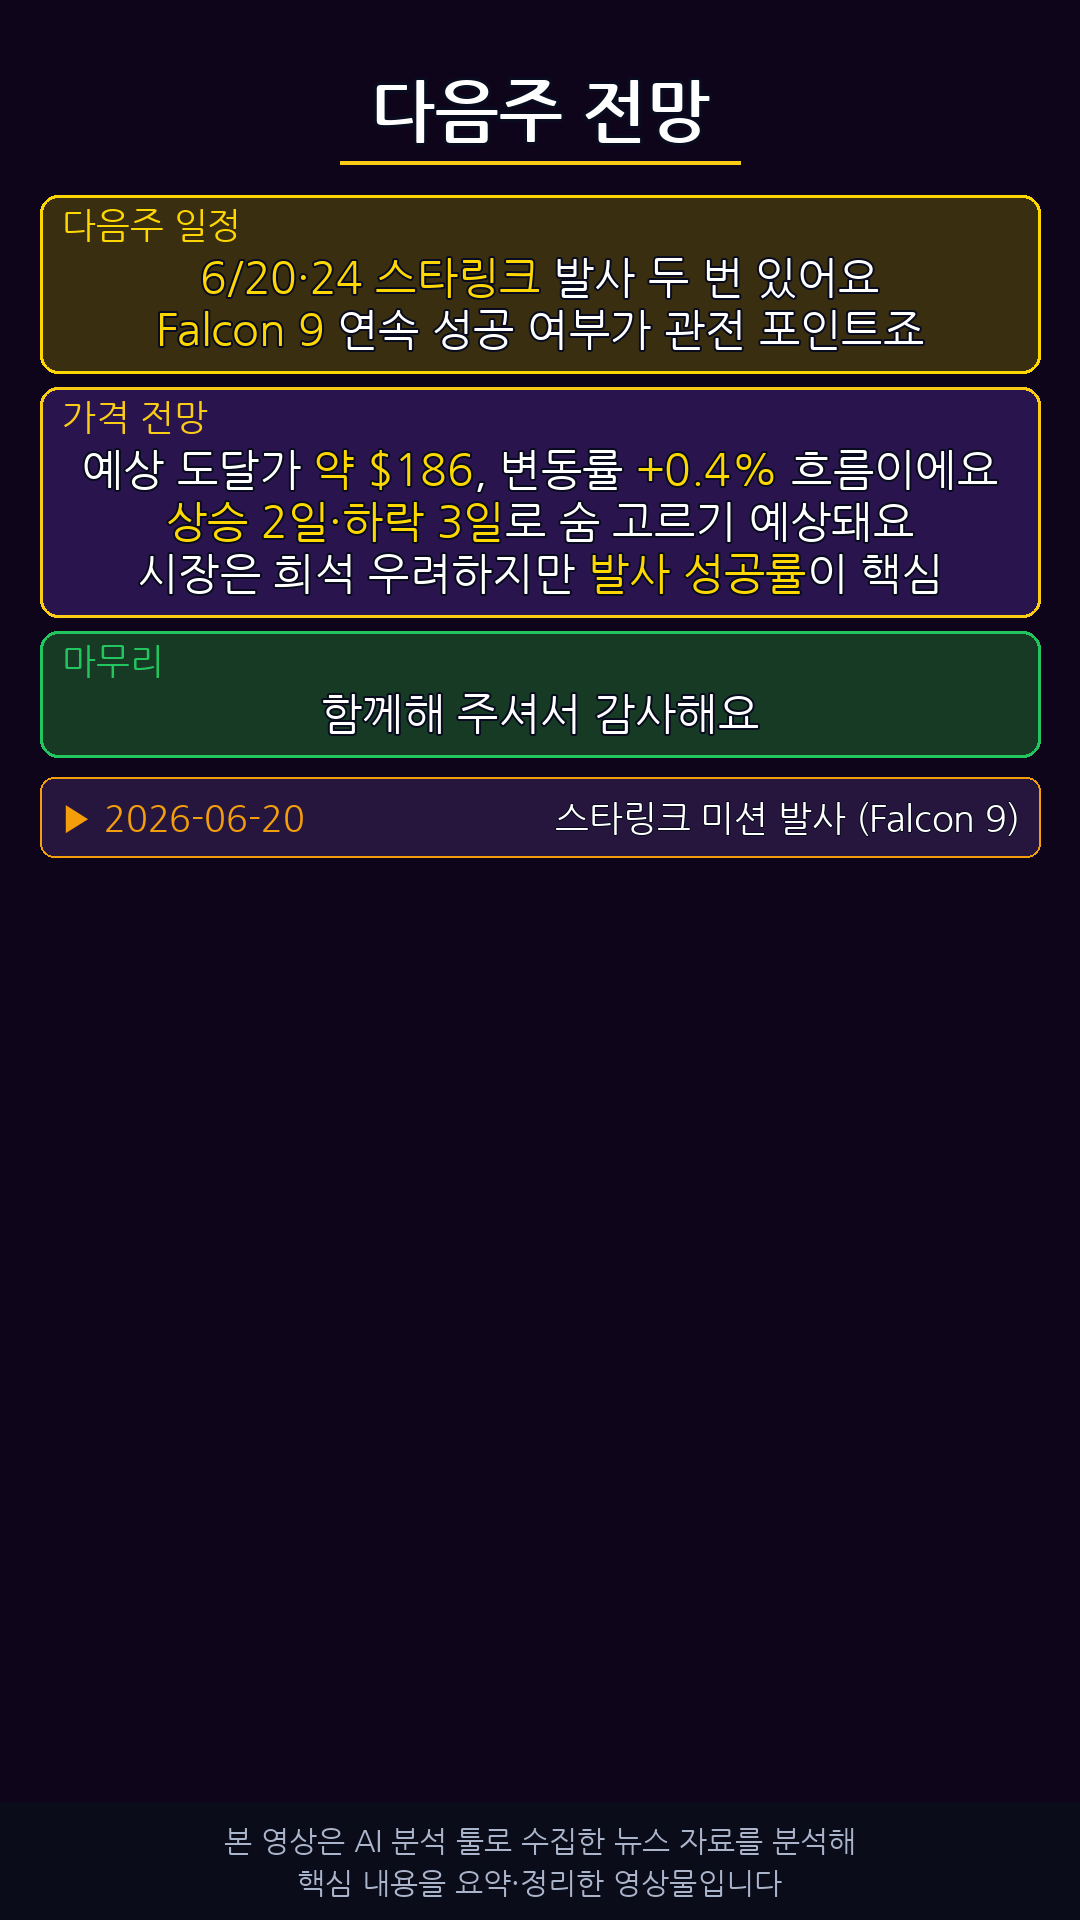
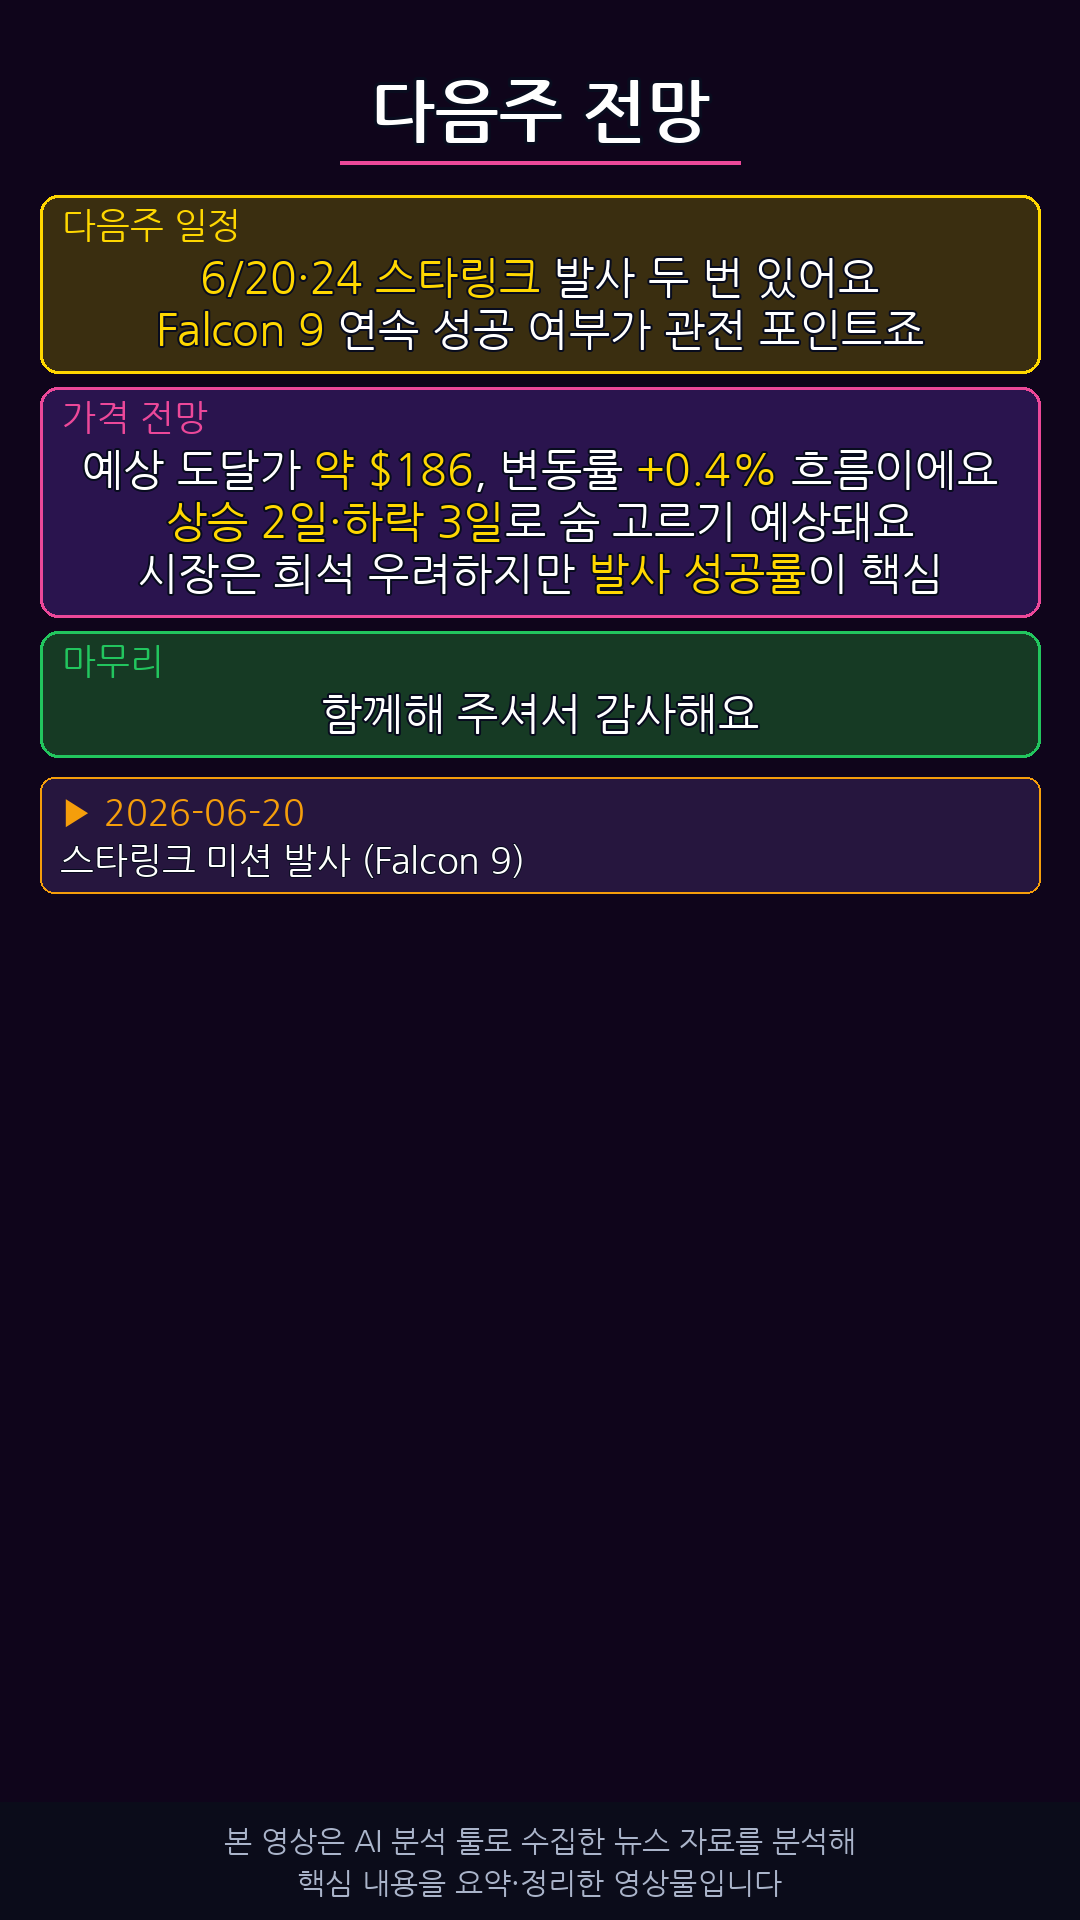
fix: 클로징 씬 캘린더 일정 줄 날짜·제목 겹침 수정 (#9)
* feat: 쇼츠 양산형 탈피 — 격일 생성 + 오프닝 훅 다양화 + 색상 테마 로테이션

rklb-dashboard v1.0.7을 포팅 (4가지 모두 종목 무관 로직):
- weekly-video.yml: 주1회 금요일 → 격일(월·수·금 KST 새벽) cron 전환
- weekly_video_prep.py: HOOK_STYLES 8종 풀 + pick_hook()으로 생성일 시드
  기반 오프닝 다양화, "시장 컨센서스와 다른 차별화 관점 1줄" 프롬프트 지시 추가
- weekly_video_prep.py + weekly_video_make.py: ACCENT_THEMES 3종 팔레트 +
  _theme_idx()로 정적 이미지·영상 색상 테마를 생성일 기준 동기화 로테이션
- LOOKBACK_DAYS에 격일 생성 시 4~5로 줄이는 것을 권장하는 주석 추가

Claude-Session: https://claude.ai/code/session_0198QaPdDbYsY7wRxyUjvexU

* fix: AI 분석이 SPCX를 비상장 기업으로 오판하는 문제 수정

원인: 모델의 사전학습 지식(SpaceX 실제 비상장)과 대시보드 전제(2026-06-12
가상 IPO 완료)가 충돌해, IPO 관련 뉴스를 "가상 시나리오"·"미상장 기업"으로
판단하고 impact_score 0/neutral 처리하는 사례가 다수 발생. Google Search
grounding을 쓰는 프롬프트는 실시간 검색 결과가 실제 비상장 현실을 그대로
반영해 특히 취약했음(주간영상 변동원인 카드에 "스페이스X는 비상장 기업이므로
가상의 수치입니다" 문구가 실제로 노출됨).

- config/ticker.json: ipo_fact_en 필드 추가(SPCX 전용, 선택적) — IPO가
  실제 발생했다는 사실을 모든 프롬프트에 주입해 모델이 전제와 충돌하지
  않도록 함
- scripts/lib/prompt.js: ipoFactNote() 헬퍼 추가, buildSystemPrompt에서
  사용 — Node 스크립트와 브라우저(index.html) 공통 진입점
- index.html: buildSystemPromptBrowser/gCfg fallback/SYSTEM_PROMPT
  fallback 3곳에 동일하게 반영(설정 fetch 실패 시에도 누락 없도록)
- scripts/auto-analysis.js, calendar-update.js, backtest-run.js:
  Google Search grounding을 쓰는 개별 프롬프트(뉴스/인물 감성/캘린더/
  백테스트 수집)에도 IPO_FACT 주입
- scripts/weekly_video_prep.py: search_movement_reason()을 IPO_FACT_EN
  설정 종목은 실시간 검색 대신 이미 같은 전제로 분석된 top_bullish/
  top_bearish 근거로 합성하도록 분기(검색 결과의 현실 반영 자체를 차단)
[…]

Changed region(s): [[0.0306, 0.4062, 0.9778, 0.4688], [0.0611, 0.1875, 0.1833, 0.2188]]

diff --git a/scripts/weekly_video_prep.py b/scripts/weekly_video_prep.py
@@ -1641,13 +1641,15 @@ def build_scene_image(scene, summary, font_reg, font_bold, bg_path: Path | None 
             ev = next_events[0]
             date_s = ev.get("date", "")
             title_s = strip_emoji(ev.get("title", "")[:30])
-            SLIM_H = 80
+            # 날짜·제목을 한 줄에 같이 배치하면 제목이 길 때(특히 한글 전용 23자급)
+            # 좌측 날짜와 우측 제목이 가운데서 겹친다 — 두 줄로 분리해 항상 여유 확보.
+            SLIM_H = 116
             draw.rounded_rectangle([PAD, SLIM_Y, W - PAD, SLIM_Y + SLIM_H],
                                    radius=14, fill=(38, 22, 62), outline=AMBER, width=2)
-            draw.text((PAD + 20, SLIM_Y + SLIM_H // 2), f"▶ {date_s}",
+            draw.text((PAD + 20, SLIM_Y + 34), f"▶ {date_s}",
                       font=f_sm, fill=AMBER, anchor="lm")
-            draw.text((W - PAD - 20, SLIM_Y + SLIM_H // 2), title_s,
-                      font=f_sm, fill=WHITE, anchor="rm",
+            draw.text((PAD + 20, SLIM_Y + 82), title_s,
+                      font=f_sm, fill=WHITE, anchor="lm",
                       stroke_width=1, stroke_fill=STROKE)
         else:
             # 폴백 자리 비움 (다음 단계 좌표 보존)